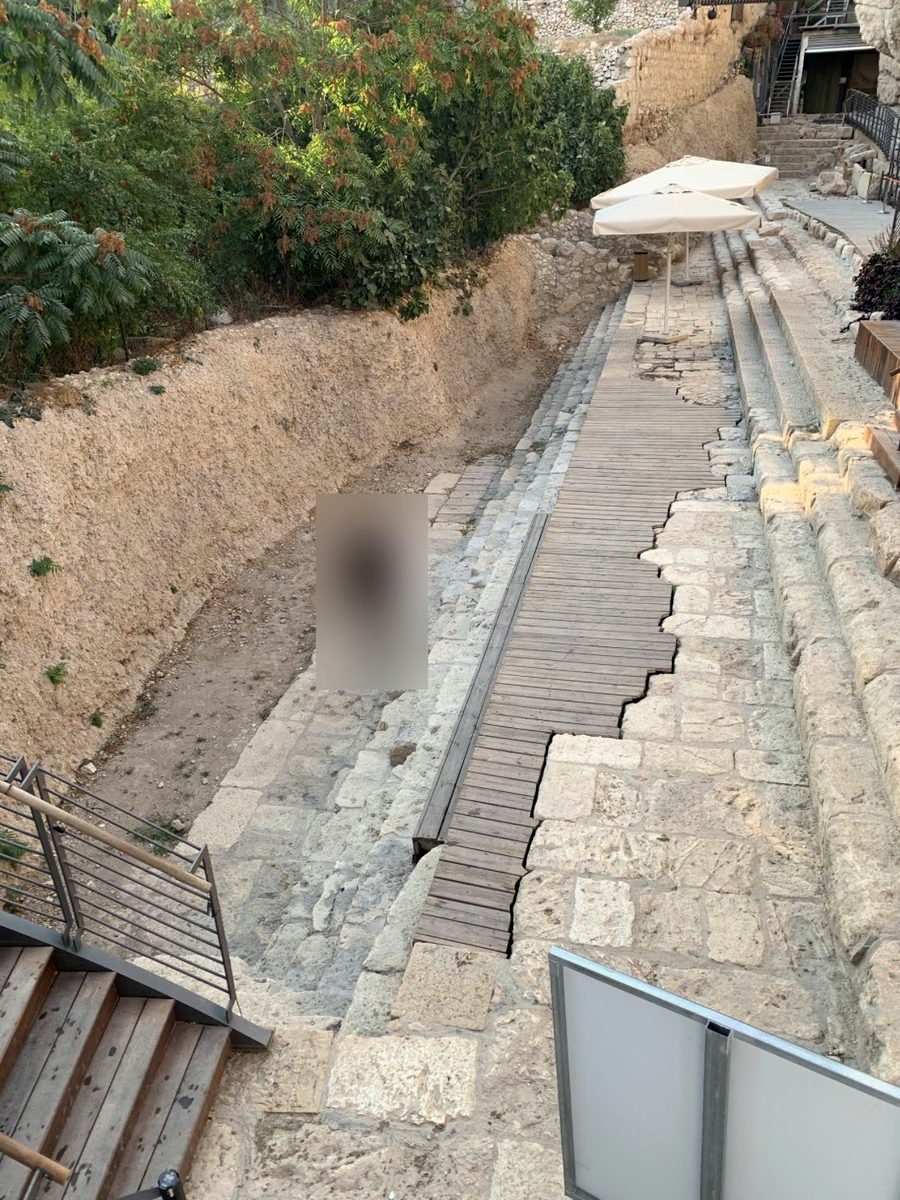
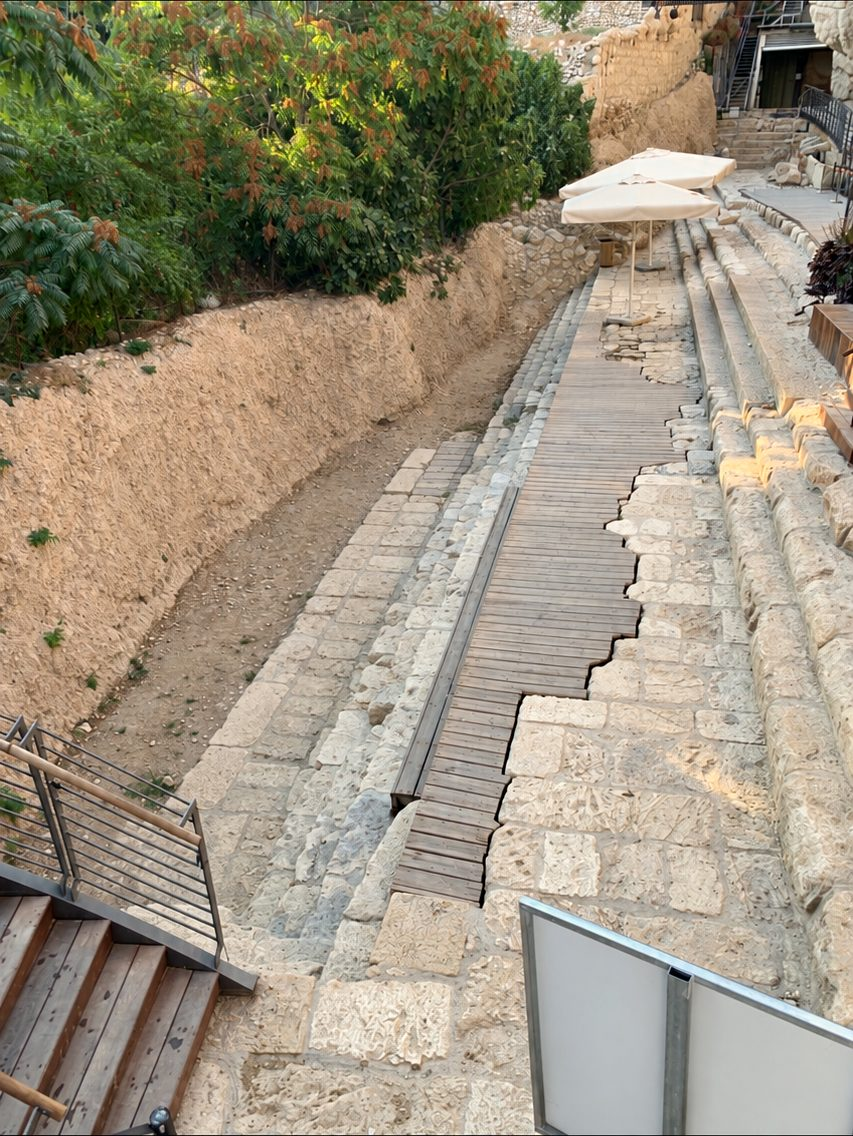
v7u: three photos with the person removed (Eastern Gate path and steps, Pool of Siloam), no blur
Claude-Session: https://claude.ai/code/session_011AqaUbLZhNpG24xiQxeqKm

diff --git a/app/www/js/release.js b/app/www/js/release.js
@@ -8,7 +8,7 @@
   /* Every new build starts from the very first scene (full start screen, Creation level 1), as Richard asked.
      The progress saved by an older build, here and in iCloud, is set aside.
      !! Turn FRESH_EACH_BUILD off before an UPDATE goes to real players, or their progress would be wiped. */
-  const BUILD = "v7t";
+  const BUILD = "v7u";
   const FRESH_EACH_BUILD = false;   // off for TestFlight: testers keep their progress between updates
   /* The Final Seven Years: false = shown as a preview only, every chapter locked ("Coming soon").
      Set to true when Richard opens chapter 1. */

diff --git a/app/www/js/dev.js b/app/www/js/dev.js
@@ -9,7 +9,7 @@
      Garden Gate, mark the first three stories done, reset the adventure, replay the full start screen. */
 (function () {
   "use strict";
-  const TESTER = true;    // tester build v7t
+  const TESTER = true;    // tester build v7u
   /* v7p (Richard, 23 Nov): "take out the admin button, the skip button". TOOLS = false hides the floating Skip button and the
      Tester tools group in Settings. TESTER stays on so Episode 2 still opens. Set TOOLS = true to get them back. */
   const TOOLS = false;

diff --git a/app/tools/make_fsy_walk_assets.py b/app/tools/make_fsy_walk_assets.py
@@ -94,7 +94,7 @@ PHOTOS = {
     "market-kaldron": "photos/oct27/market-lane-bakery.png",
     "market-fish": "photos/oct28/fish-counter-painting.png",
     "passport-control": "photos/oct28/passport-control-painting.png",   # painting   # painting (replaces the blurry crop of the photo, Oct 28)
-    "siloam-pool": ("photos/oct27/siloam-pool-steps.png", None, [(395, 1085, 535, 1330)]),   # person in the pool blurred
+    "siloam-pool": "photos/oct27/siloam-pool-steps-clear.png",   # Richard, 24 Nov: person removed with his tool (was blurred)
     "siloam-sign": "photos/oct27/siloam-pool-sign.png",
     "siloam-water": "photos/hezekiah/tunnel-exit-pool-columns.png",
     "synagogue-doors": "photos/oct27/great-synagogue-doors.png",
@@ -125,9 +125,9 @@ PHOTOS = {
     "bazaar-stalls": "photos/oct28/bazaar-stalls-painting.png",   # painting
     "bazaar-trader": "photos/oct28/bazaar-trader-painting.png",   # painting
     "bazaar-end": "photos/oct28/bazaar-end-painting.png",   # painting
-    # the Eastern Gate from outside (Richard blurred out of two of them)
-    "egate-path": ("photos/egate/path-along-wall-richard.png", None, [(600, 830, 730, 1190)]),
-    "egate-steps": ("photos/egate/graves-stairs-richard.png", None, [(495, 905, 625, 1245)]),
+    # the Eastern Gate from outside (Richard, 24 Nov: himself removed from two of them with his tool; they were blurred)
+    "egate-path": "photos/egate/path-along-wall-clear.png",
+    "egate-steps": "photos/egate/graves-stairs-clear.png",
     "egate-close": "photos/egate/gate-close-from-below.png",
     "egate-olives": "photos/egate/view-to-mount-of-olives-cemetery.png",
     "egate-gethsemane": "photos/egate/view-to-gethsemane-and-russian-church.png",

diff --git a/docs/fsy/FIX-LIST.md b/docs/fsy/FIX-LIST.md
@@ -765,3 +765,10 @@ Richard: "Set at 5 a full lamp. Make it part of the strategy of the game to have
 | # | Fix | State |
 | --- | --- | --- |
 | 1 | Richard: he has played to the Eastern Gate and does not want to start again with each build. release.js FRESH_EACH_BUILD is now false: a new build keeps the saved game. (This replaces his earlier rule that every build opens at the beginning; switch it back to true if he asks.) To start over there is still Settings. | Done in v7t |
+
+## Build v7u (24 Nov 2026)
+
+| # | Fix | State |
+| --- | --- | --- |
+| 1 | Richard: the blurred block in some photos is distracting. Three pictures replaced with his own versions, the person removed with his tool: the path along the wall and the steps among the graves (Eastern Gate, outside), and the Pool of Siloam. No blur on them now. | Done in v7u |
+| 2 | The other four blurred pictures (the City of David tunnel, the Church of All Nations altar and door, the Skull Hill sign): Richard says they are OK. Left as they are. | No change |
